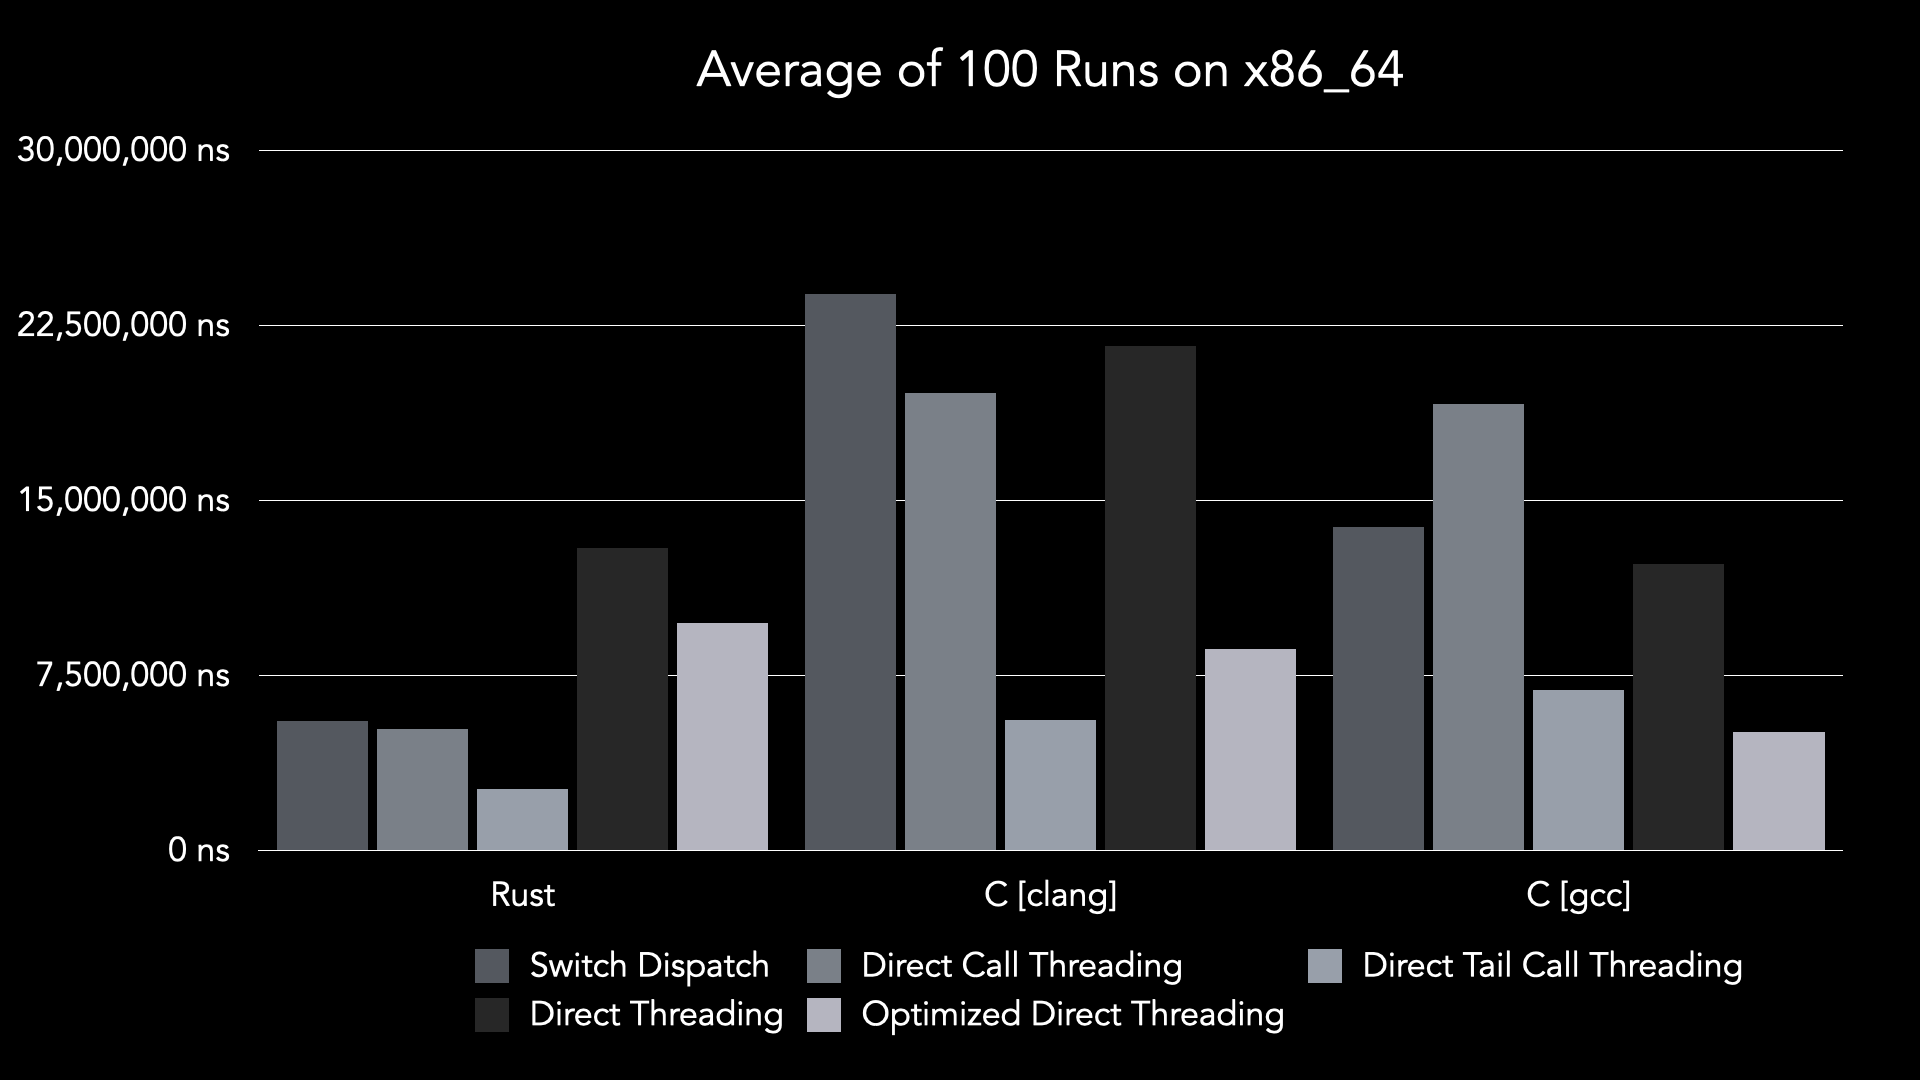
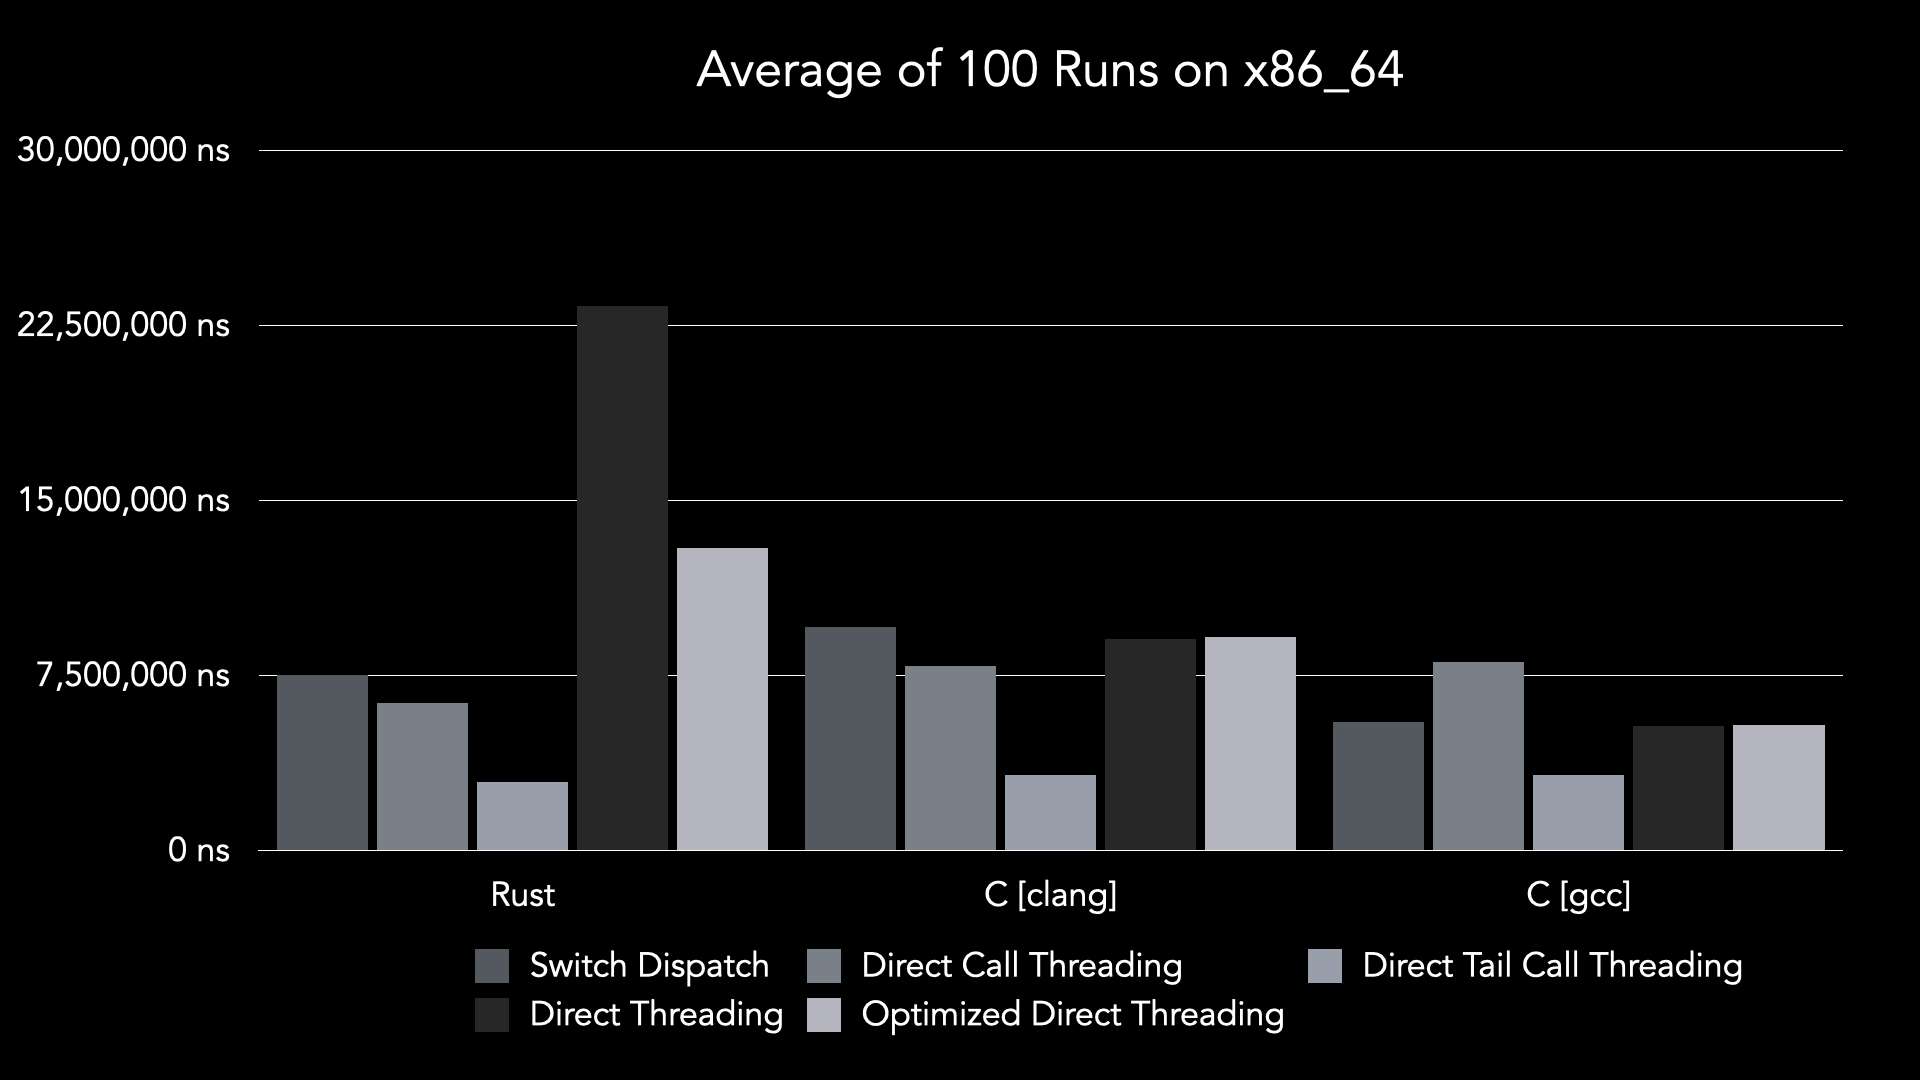
Performance comparison updated from 100 averages to 10,000 averages

diff --git a/README.md b/README.md
@@ -1,4 +1,4 @@
-# Rust Instruction Dispatch
+# Instruction Dispatch Techniques in Rust: Perromance Comparison and Implementation
 
 This is a project to learn how to implement instruction dispatch in Rust. Instruction dispatch is a technique for executing bytecode instructions in a language interpreter. This project compares five types of instruction dispatch:
 
@@ -18,13 +18,11 @@ This is a project to learn how to implement instruction dispatch in Rust. Instru
 
 [^2]: Peter Liniker. 2017. Virtual Machine Dispatch Experiments in Rust. Retrieved from <https://pliniker.github.io/post/dispatchers/>.
 
-In my environment (MacBook Pro 13" 2020 Apple M1), Direct Tail Call Threading was faster than Switch Dispatch.
+In my environment (MacBook Pro 13" 2020 Apple M1), Direct Tail Call Threading was fastest in Rust as well as C.
 
 ## Installation
 
 This project is written in Rust and C. To install Rust, please refer to [here](https://www.rust-lang.org/tools/install).
-
-Also, the implementations of Direct Threading and Optimized Direct Threading in Rust are for Aarch64 and x86_64. If you want to support other architectures, you need to rewrite the inline assembly in the source code.
 
 After downloading this project, build it with the following commands.
 
@@ -41,6 +39,8 @@ After downloading this project, build it with the following commands.
 ```
 
 ## Usage
+
+### Release
 
 After building, you can measure the performance of each type of instruction dispatch with the following commands.
 
@@ -70,6 +70,8 @@ Time elapsed:    3709042 ns
 Average of 100 results:    3916145 ns
 ```
 
+### Criterion
+
 Programs written in Rust can also run cargo criterion.
 
 ```console
@@ -98,6 +100,8 @@ running 7 tests
 test bytecode::test_get_opcode ... ignored
 (omitted)
 ```
+
+### Debug
 
 In addition, programs written in Rust can be run with the dev profile to output debugging information.
 
@@ -176,15 +180,17 @@ The program "threadedasm.rs " in "Virtual Machine Dispatch Experiments in Rust[^
 [^7]: Peter Liniker. 2017. Virtual Machine Dispatch Experiments in Rust. Retrieved from <https://github.com/pliniker/dispatchers>.
 [^8]: Rust RFC. 2873-inline-asm. Retrieved from <https://rust-lang.github.io/rfcs/2873-inline-asm.html>.
 
-My program is only for Aarch64. I would appreciate it if you could send me pull requests for other architectural implementations.
+This implementation is for Aarch64 and x86_64.
 
-My program runs only at opt-level 0 and is significantly slower than the -Ofast C implementation. I would appreciate it if you could send me a pull request for this as well.
+This implementation violates Rules for inline assembly, so it is not guaranteed to work; on Aarch64, it has been a compile error since 1.73.
+
+The rules for inline assembly can be found at <https://doc.rust-lang.org/reference/inline-assembly.html#rules-for-inline-assembly>.
+
+> You cannot jump from an address in one asm! block to an address in another, even within the same function or block, without treating their contexts as potentially different and requiring context switching. You cannot assume that any particular value in those contexts (e.g. current stack pointer or temporary values below the stack pointer) will remain unchanged between the two asm! blocks.
 
 ### Optimized Direct Threading
 
 In the optimized direct thread, the number of array references during bytecode execution is one less than in the direct thread.
-
-Like direct threading, my program is an Aarch64-only implementation, with the restriction that my program can only run at opt-level 0.
 
 ## Comparison of Techniques
 
@@ -254,13 +260,17 @@ Add memory location 0 by 1 from 0 to 1,048,575(0xfffff).
 
 ### Aarch64
 
+As shown in the histogram below, the "average of 100 runs" itself was run 100 times and the average of the 100 runs was used because of the large variability in the "average of 100 runs".
+
+![Histgram of Average of 100 Runs on Aarch64](/images/Histgram_C_switch-dispatch_clang.png "Histgram of Average of 100 Runs on Aarch64")
+
 | Threading Techniques | Rust criterion (ms) | Rust Average of 100 runs (ns) | C Average of 100 runs [clang] (ns) | C Average of 100 runs [gcc] (ns) |
 | :------------------------- | -----: | --------: | --------: | --------: |
-| Switch Dispatch            | 3.6830 | 3,644,041 | 8,294,589 | 7,704,200 |
-| Direct Call Threading      | 7.0812 | 6,818,994 | 7,776,315 | 7,755,413 |
-| Direct Tail Call Threading | 2.4328 | 2,435,381 | 2,585,706 | 2,518,542 |
-| Direct Threading           |  -[^9] |     -[^9] | 7,228,139 | 7,588,820 |
-| Optimized Direct Threading |  -[^9] |     -[^9] | 7,499,937 | 7,687,219 |
+| Switch Dispatch            | 3.6830 | 4,143,163 | 7,715,544 | 7,310,480 |
+| Direct Call Threading      | 7.0812 | 7,662,319 | 7,369,473 | 7,792,405 |
+| Direct Tail Call Threading | 2.4328 | 2,915,585 | 2,595,484 | 2,628,751 |
+| Direct Threading           |  -[^9] |     -[^9] | 6,785,416 | 7,600,264 |
+| Optimized Direct Threading |  -[^9] |     -[^9] | 8,138,738 | 8,661,533 |
 
 [^9]: compile error: invalid CFI advance_loc expression
 
@@ -271,12 +281,12 @@ Measured on MacBook Pro 13" 2020 (Apple M1) with rustc 1.75.0 and clang 17.0.6, 
 ### x86_64
 
 | Threading Techniques | Rust criterion (ms) | Rust Average of 100 runs (ns) | C Average of 100 runs [clang] (ns) | C Average of 100 runs [gcc] (ns) |
-| :------------------------- | -------: | ---------: | ---------: | ---------: |
-| Switch Dispatch            |   5.8429 |  5,567,571 | 23,849,510 | 13,881,652 |
-| Direct Call Threading      |   5.3217 |  5,198,761 | 19,624,856 | 19,149,867 |
-| Direct Tail Call Threading |   2.7867 |  2,642,556 |  5,581,770 |  6,873,807 |
-| Direct Threading           |  15.904  | 12,973,085 | 21,634,645 | 12,296,709 |
-| Optimized Direct Threading |  11.236  |  9,748,775 |  8,621,428 |  5,080,664 |
+| :------------------------- | -------: | ---------: | ---------: | --------: |
+| Switch Dispatch            |   5.8429 |  7,532,683 | 9,584,538 | 5,502,122 |
+| Direct Call Threading      |   5.3217 |  6,331,505 | 7,895,659 | 8,101,852 |
+| Direct Tail Call Threading |   2.7867 |  2,962,902 | 3,231,800 | 3,259,439 |
+| Direct Threading           |  15.904  | 23,352,383 | 9,058,230 | 5,331,247 |
+| Optimized Direct Threading |  11.236  | 12,986,058 | 9,162,072 | 5,387,817 |
 
 Measured on DELL-inspiron 15 3000 2019 (Intel Core i7-1065G7) with rustc 1.75.0 and clang 15.0.7, gcc 12.3.0
 
